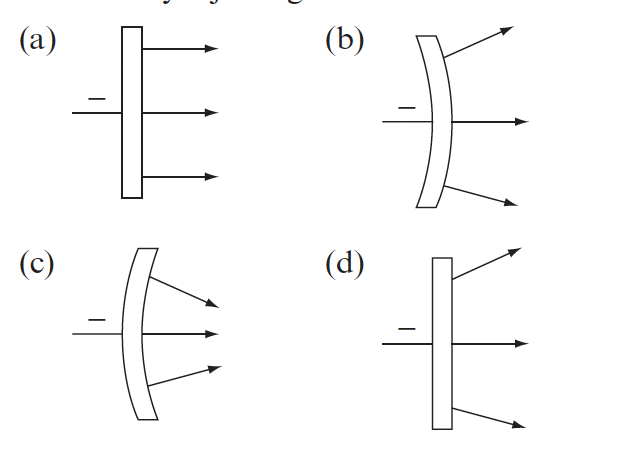
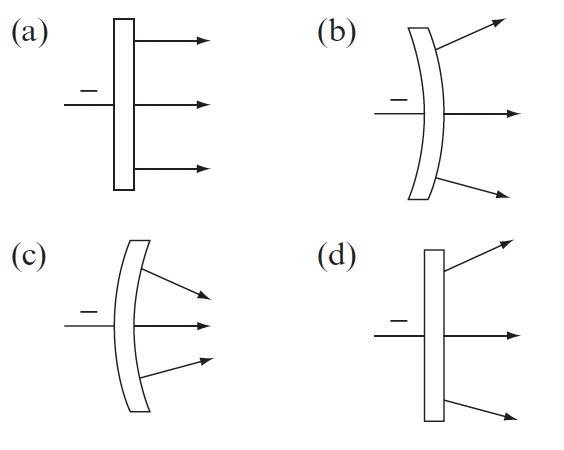
Updated Q 8 image, updated worksheet

diff --git a/questionbank/fiitjee/chemistry/dpp/atomic_structure/ws_bohr.html b/questionbank/fiitjee/chemistry/dpp/atomic_structure/ws_bohr.html
@@ -194,7 +194,90 @@
 					</div>
 				</div>
 				<!-- End Question 4-->
-
+				<!-- Start Question 5-->
+				<div class="accordion-item">
+					<button class="accordion-button" id="Q05">
+						<a href="#Q05">
+							<b>5.</b> The presence of charge particles in the atoms was first
+							confirmed by <br />&nbsp;&nbsp;&nbsp;&nbsp;&nbsp;&nbsp; (a)
+							Rutherford <br />&nbsp;&nbsp;&nbsp;&nbsp;&nbsp;&nbsp; (b) Thomson
+							<br />&nbsp;&nbsp;&nbsp;&nbsp;&nbsp;&nbsp; (c) Faraday
+							<br />&nbsp;&nbsp;&nbsp;&nbsp;&nbsp;&nbsp; (d) Goldstein
+						</a>
+					</button>
+					<div class="accordion-content ans-align">
+						<p>The correct answer is (c) Faraday.</p>
+						<p>Explanation:</p>
+						<p>
+							Michael Faraday's experiments on electrolysis and his formulation
+							of the laws of electrolysis provided evidence for the existence of
+							charged particles in atoms. His work demonstrated that atoms could
+							be split into charged ions in solution, thereby indirectly
+							confirming the presence of charged particles.
+						</p>
+						<p>
+							Option (a) is incorrect because Rutherford discovered the atomic
+							nucleus through his gold foil experiment, but he did not first
+							confirm the presence of charged particles.
+						</p>
+						<p>
+							Option (b) is incorrect because Thomson discovered the electron,
+							but he did not confirm the presence of positive charge within
+							atoms.
+						</p>
+						<p>
+							Option (d) is incorrect because Goldstein's work on anode rays
+							contributed to atomic theory, but it was not the first
+							confirmation of charged particles in atoms.
+						</p>
+						<p>Therefore, the correct answer is choice (c).</p>
+						<p>Ans = c</p>
+					</div>
+				</div>
+				<!-- End Question 5-->
+				<!-- Start Question 6-->
+				<div class="accordion-item">
+					<button class="accordion-button" id="Q06">
+						<a href="#Q06">
+							<b>6.</b> From the discharge tube experiment, it is concluded that
+							<br />&nbsp;&nbsp;&nbsp;&nbsp;&nbsp;&nbsp; (a) mass of proton is
+							fractional. <br />&nbsp;&nbsp;&nbsp;&nbsp;&nbsp;&nbsp; (b) matter
+							contains electrons. <br />&nbsp;&nbsp;&nbsp;&nbsp;&nbsp;&nbsp; (c)
+							matter contains nucleus.
+							<br />&nbsp;&nbsp;&nbsp;&nbsp;&nbsp;&nbsp; (d) positive rays are
+							heavier than protons.
+						</a>
+					</button>
+					<div class="accordion-content ans-align">
+						<p>The correct answer is (b) matter contains electrons.</p>
+						<p>Explanation:</p>
+						<p>
+							The discharge tube experiment, conducted by J.J. Thomson, involved
+							passing an electric current through gases at low pressure and high
+							voltage, which led to the discovery of cathode rays. These cathode
+							rays were identified as streams of negatively charged particles,
+							later named electrons. This experiment provided the first evidence
+							that atoms contain electrons, thereby demonstrating that matter
+							contains electrons.
+						</p>
+						<p>
+							Option (a) is incorrect because the discharge tube experiment did
+							not provide information about the mass of protons.
+						</p>
+						<p>
+							Option (c) is incorrect because the discovery of the atomic
+							nucleus was made by Rutherford, not through the discharge tube
+							experiment.
+						</p>
+						<p>
+							Option (d) is incorrect because the discharge tube experiment did
+							not conclude that positive rays are heavier than protons.
+						</p>
+						<p>Therefore, the correct answer is choice (b).</p>
+						<p>Ans = b</p>
+					</div>
+				</div>
+				<!-- End Question 6-->
 				<!-- Start Question 7-->
 				<div class="accordion-item">
 					<button class="accordion-button" id="Q07">
@@ -232,6 +315,52 @@
 					</div>
 				</div>
 				<!-- End Question 7-->
+				<!-- Start Question 8-->
+				<div class="accordion-item">
+					<button class="accordion-button" id="Q08">
+						<a href="#Q08">
+							<b>8.</b> Which of the following is not the possible path of
+							cathode rays ejecting from the surface of cathode?
+							<br />&nbsp;&nbsp;&nbsp;&nbsp;&nbsp;&nbsp;
+							<img
+								src="../../../../../image/screenshots/atomic_structure_mcq_08_02.png"
+								alt="Option Diagram"
+								style="width: 50%; height: auto"
+							/>
+						</a>
+					</button>
+					<div class="accordion-content ans-align">
+						<p>The correct answer is (d).</p>
+						<p>Explanation:</p>
+						<p>
+							Cathode rays are streams of electrons that travel in straight
+							lines from the cathode. When they are emitted from a surface,
+							their paths can be affected by electric and magnetic fields, but
+							without such fields, they travel in straight lines.
+						</p>
+						<p>
+							Option (a) shows cathode rays traveling straight, which is
+							possible.
+						</p>
+						<p>
+							Option (b) shows cathode rays diverging from a concave surface,
+							which is possible because electrons emitted from a concave surface
+							can diverge.
+						</p>
+						<p>
+							Option (c) shows cathode rays diverging from a convex surface,
+							which is also possible.
+						</p>
+						<p>
+							Option (d) shows cathode rays traveling at an angle from a flat
+							surface, which is not possible without an external influence.
+						</p>
+						<p>Therefore, the correct answer is choice (d).</p>
+						<p>Ans = d</p>
+					</div>
+				</div>
+				<!-- End Question 8-->
+
 				<!-- Start Question 20-->
 				<div class="accordion-item">
 					<button class="accordion-button" id="Q20">
